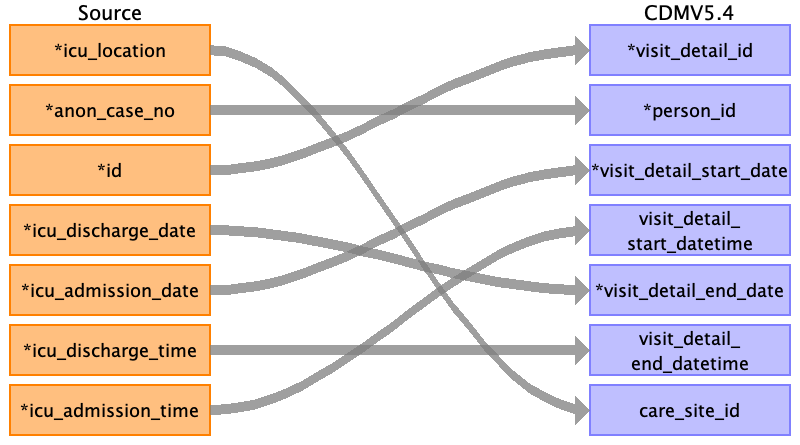
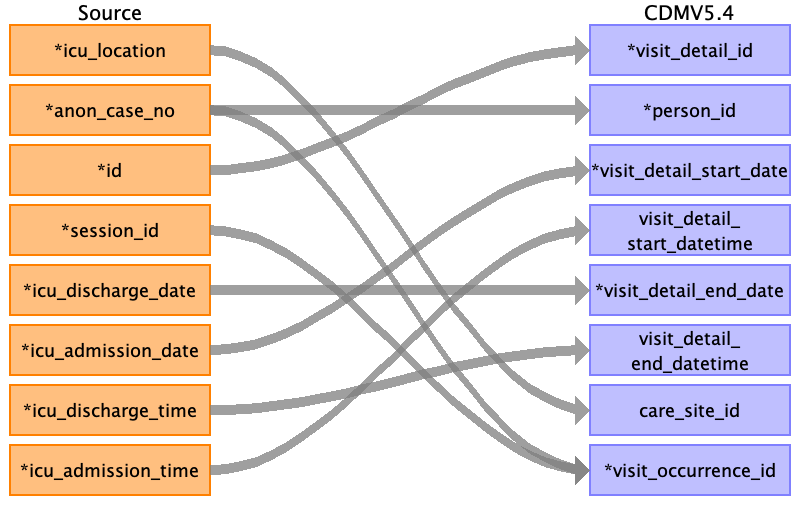
Update visit_detail

diff --git a/visit_detail.md b/visit_detail.md
@@ -24,7 +24,7 @@
 | discharged_to_concept_id |  |  |  |
 | preceding_visit_detail_id |  |  |  |
 | parent_visit_detail_id |  |  |  |
-| visit_occurrence_id |  |  |  |
+| visit_occurrence_id | anon_case_no<br>session_id |  | Find matching case_no and session_id in table VISIT_OCCURRENCE for their VISIT_OCCURRENCE_ID |
 
 ### Reading from intra_op__operation
 
@@ -50,5 +50,5 @@
 | discharged_to_concept_id |  |  |  |
 | preceding_visit_detail_id |  |  |  |
 | parent_visit_detail_id |  |  |  |
-| visit_occurrence_id |  |  |  |
+| visit_occurrence_id |  |  | Find matching case_no and session_id in table VISIT_OCCURRENCE for their VISIT_OCCURRENCE_ID |
 
